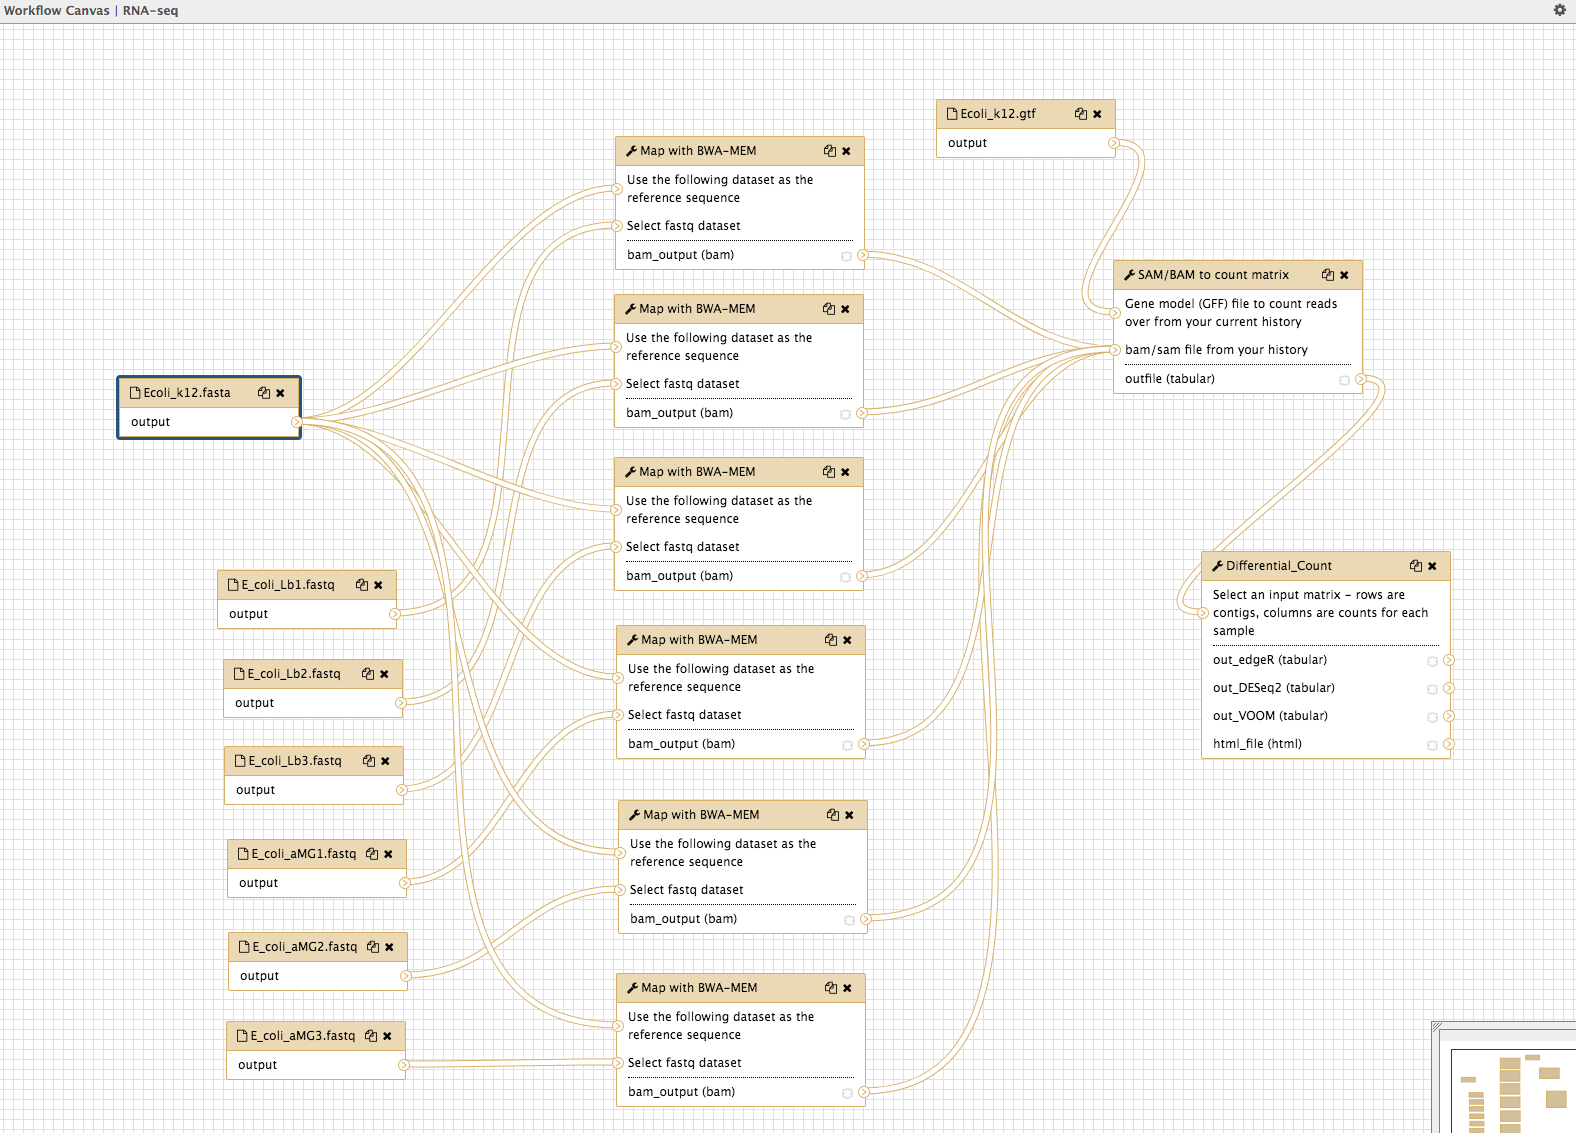
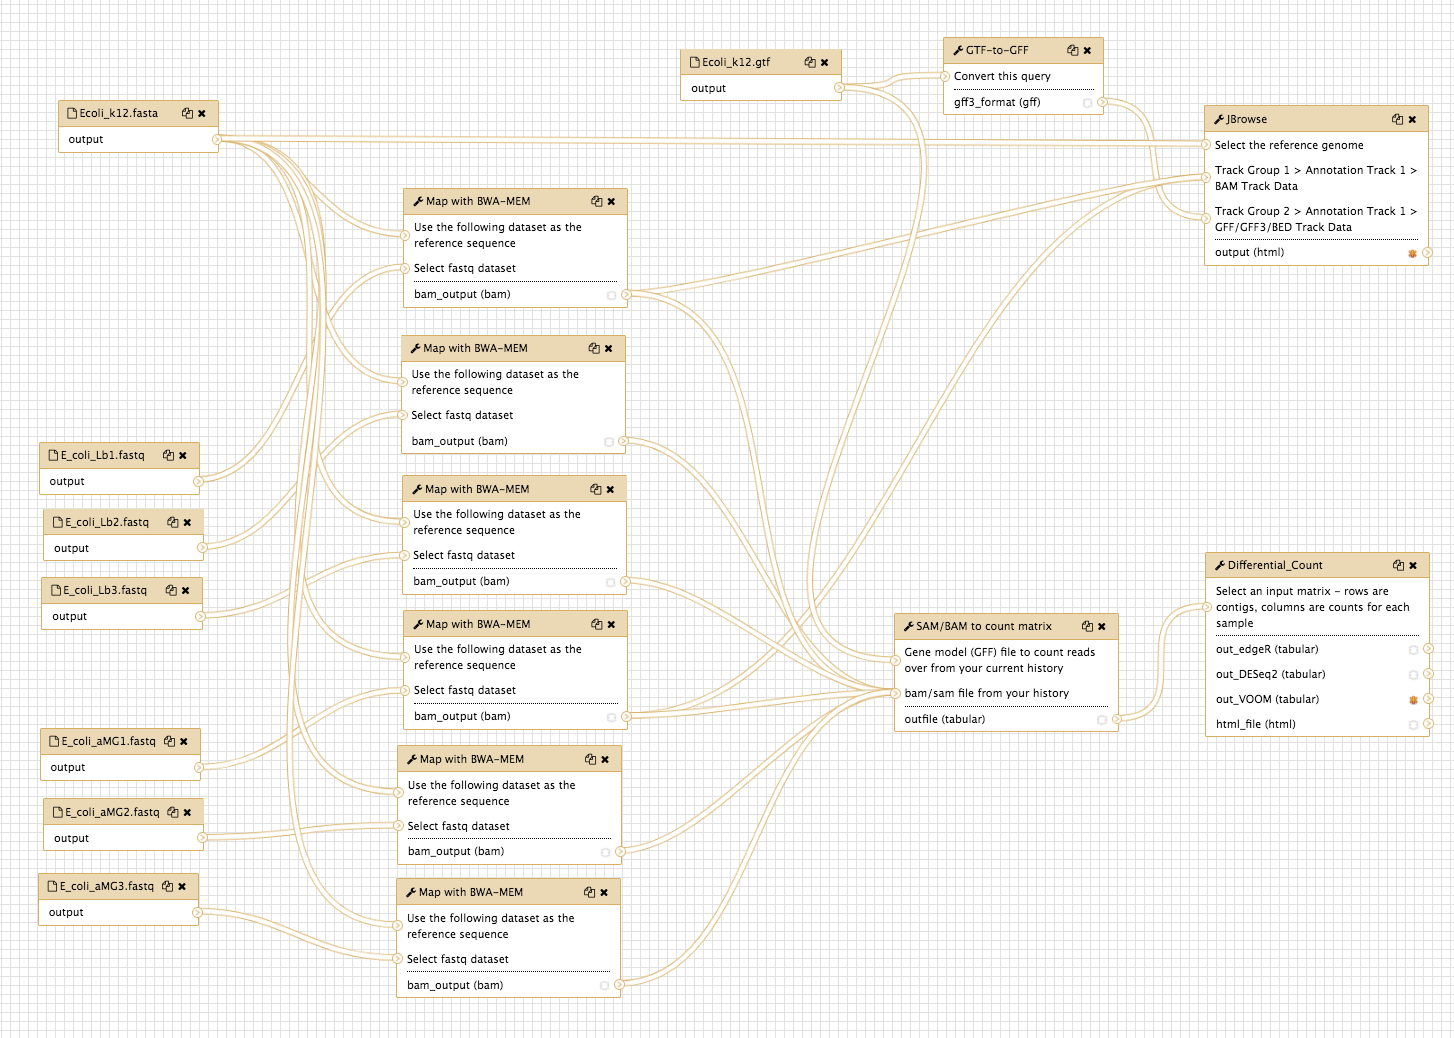
updates for RNA-seq bacteria

diff --git a/docs/modules/dge/index.md b/docs/modules/dge/index.md
@@ -235,6 +235,7 @@ In Galaxy:
     - Note: Don't select the tool called *htseq-count*. The *SAM/BAM to count matrix* also uses that tool but allows an input of multiple bam files, which is what we want.
 - For <ss>Gene model (GFF) file to count reads over from your current history</ss>, select the <fn>GTF</fn> file.
 - For <ss>Reads are stranded</ss> select *Yes* (box turns dark grey)
+- Leave the next two settings as default
 - For <ss>GTF feature type for counting reads...</ss> select *transcript*.
 - For <ss>bam/sam file from your history</ss> choose the 6 <fn>bam</fn> files.
 
@@ -245,7 +246,7 @@ Your tool interface should look like this:
 - Click <ss>Execute</ss>
 - Click <ss>Refresh</ss> in the history pane to see if the analysis has finished.
 
-Output:
+### Output
 
 - There is one output file: <fn>bams to DGE count matrix</fn>.
 - Click on the file name to expand the information in the History pane.
@@ -255,12 +256,13 @@ Output:
 ![counts file](images/image09.png)
 
 - Each row is a gene (or feature) and each column is a sample, with counts against each gene.
-- Have a look at how the counts vary between samples, per gene.
+- Have a look at how the counts vary between samples, per gene. (These are quite low as we are using a cut-down data set).
 - We can't just compare the counts directly; they need to be normalized before comparison, and this will be done as part of the DGE analysis in the next step.
 
-
-
 ## Test for differential expression
+
+There are various tools available to test for differential gene expression. In today's tutorial, we will use the tool Voom (link to the paper [here]( https://genomebiology.biomedcentral.com/articles/10.1186/gb-2014-15-2-r29)).
+
 
 - In the <ss>Tools</ss> panel, search for <ss>Differential_Count models</ss> (don't forget the underscore) and click on it.
     - This has options to use edgeR, DESeq, or Voom. Here we will use Voom.
@@ -278,27 +280,30 @@ Your tool interface should look like this:
 
 - Click <ss>Execute</ss>.
 
-There are two output files.
+### Output
 
-View the file called <fn>DGEusingvoom.html</fn>.
+There are two output files. We will look at the file called <fn>DEGusingvoom_topTable_VOOM.xls</fn>.
 
-- Scroll down to "VOOM log output" and "#VOOM top 50".
-- The "Contig" column has the gene names.
-- Look at the "adj.P.Val" column. This is an adjusted p value to show the significance of the gene expression difference, accounting for the effect of multiple testing. Also known as False Discovery Rate. The table is ordered by the values in this column.
-- Look at the "logFC" column. This is log2(Fold Change) of relative gene expression between the treatment samples and the control samples.
+- The <ss>Contig</ss> column shows the genes that had transcripts mapped (genes with low counts may be filtered out).
+- The <ss>adj.P.Val</ss> is the statistical significance (p value) adjusted for multiple testing. The table is sorted by this column (most significant to least significant).
+- The <ss>logFC</ss> is the log2 fold change, which is the change in gene expression between the treatment and control group.
 
-View the file called <fn>DEGusingvoom_topTable_VOOM.xls</fn>.
+![toptable](images/voomtable.png)
 
-- This is a list of all the genes that had transcripts mapped, and associated statistics.
+We can see that the most statistically signifcant result is that the ptsG gene was expressed differently between the two conditions.
 
-### More on PCA here from the html output
+- Its expression in the treatment group was lower.
+- The log base 2 change in expression is approximately -4, meaning the difference in expression is approximately 16x.
 
+To check, let's look at the ptsG gene in the original table of counts, the <fn>bams to DGE count matrix</fn>.
+
+- Click on the eye icon to view.
+- Search for the ptsG gene (Cmd-F to search on a Mac).
+- Do the read counts look different between the control samples and the treatment samples?
 
 ## DGE in Degust
 
-Degust is a tool on the web that can analyse the counts files produced in the step above, to test for differential gene expression.
-
-(Degust can also display the results from DGE analyses performed elsewhere.)
+Degust is a tool on the web that can analyse the counts files produced in the step above, to test for differential gene expression. (Degust can also display the results from DGE analyses performed elsewhere.)
 
 ### Upload counts file
 
@@ -313,7 +318,6 @@ A Configuation page will appear.
 
 - For <ss>Name</ss> type *DGE in E coli*
 - For <ss>Info columns</ss> select *Contig*
-- For <ss>Analyze server side</ss> leave box checked.
 - For <ss>Min gene read count</ss> put *10*.
 - Click <ss>Add condition</ss>
     - Add a condition called "Control" and select the LB columns.
@@ -323,14 +327,14 @@ A Configuation page will appear.
 
 ### Overview of Degust sections
 
-- Top black panel with <ss>Configure</ss> settings at right.
 - Left: Conditions: Control and Treatment.
 - Left: Method selection for DGE.
 - Top centre: Plots, with options at right.
-- When either of the expression plots are selected, a heatmap appears below.
+- When an expression plot is selected, a heatmap appears below.
 - A table of genes (or features); expression in treatment relative to control (Treatment column); and significance (FDR column).  
+- The FDR is the False Discovery Rate, also known as the adjusted p value.
 
-![Degust overview](images/image12.png)
+![Degust overview](images/degust1.png)
 
 ### Analyze gene expression
 
@@ -341,7 +345,7 @@ A Configuation page will appear.
 
 First, look at the MDS plot.
 
-![MDSplot](images/image11.png)
+![MDSplot](images/degust2.png)
 
 - This is a multidimensional scaling plot which represents the variation between samples.
 - Ideally:
@@ -363,7 +367,19 @@ Each dot shows the change in expression in one gene.
 
 Click on the dot to see the gene name.     
 
-![MAplot](images/image17.png)
+![MAplot](images/degustma.png)
+
+### Expression - Volcano plot
+
+ Another way to view expression levels is with the volcano plot.
+
+- As with the MA plot, each dot is a gene.
+- This time, the logFC axis is horizontal (in the MA plot, it was vertical).
+- The vertical axis is a measure of statistical significance (-log10 FDR).
+- If expression is significantly different between treatment and control, the dots are red. If not, they are blue. (In Degust, significant means FDR <0.05).
+- This is a quick way to visualize those genes with large changes in expression (the left and right sides of the graph).  
+
+![volcano plot](images/volcano.png)
 
 ### Expression - Parallel Coordinates and heatmap
 Each line shows the change in expression in one gene, between control and treatment.
@@ -404,7 +420,7 @@ numbers are EC numbers - enzyme commission ->  enzyme/s that catalyze a reaction
 -->
 
 
-- [Link to Voom paper.]( https://genomebiology.biomedcentral.com/articles/10.1186/gb-2014-15-2-r29)
+
 
 ## Investigate differentially-expressed genes
 
@@ -433,7 +449,7 @@ If you want to see this Galaxy history without performing the steps above:
 * Log in to Galaxy Australia: [https://usegalaxy.org.au/](https://usegalaxy.org.au/)
 * Go to <ss>Shared Data</ss>
 * Click <ss>Histories</ss>
-* Click <fn>Completed-RNA-seq-bacteria</fn>
+* Click <fn>Published-RNA-seq-bacteria</fn>
 * Click <ss>Import</ss> (at the top right corner)
 * The analysis should now be showing as your current history.
 

diff --git a/docs/modules/workflow-rna-seq/index.md b/docs/modules/workflow-rna-seq/index.md
@@ -17,7 +17,7 @@ Before we create a workflow for RNA-seq, we need the correct files in our curren
 * Or, obtain the files from a Shared History (Galaxy Australia only).
     * Go to <ss>Shared Data</ss>
     * Click <ss>Histories</ss>
-    * Click <fn>Completed-RNA-seq-bacteria</fn>
+    * Click <fn>Published-RNA-seq-bacteria</fn>
     * Click <ss>Import</ss> (at the top right corner)
     * The analysis should now be showing as your current history.
 
@@ -35,6 +35,7 @@ This brings up the workflow canvas, a space for graphically viewing and re-arran
 ![canvas](images/workflow.png)
 
 * Drag the panes around until your workflow is clear.
+* Click on the star icon next to any output files that you want to retain, such as the JBrowse output and the voom output.
 * In the top right corner click on the cog icon and <ss>Save</ss>
 * Click on the cog icon again and <ss>Run</ss>
     * <ss>Send results to a new history</ss>: *Yes*
